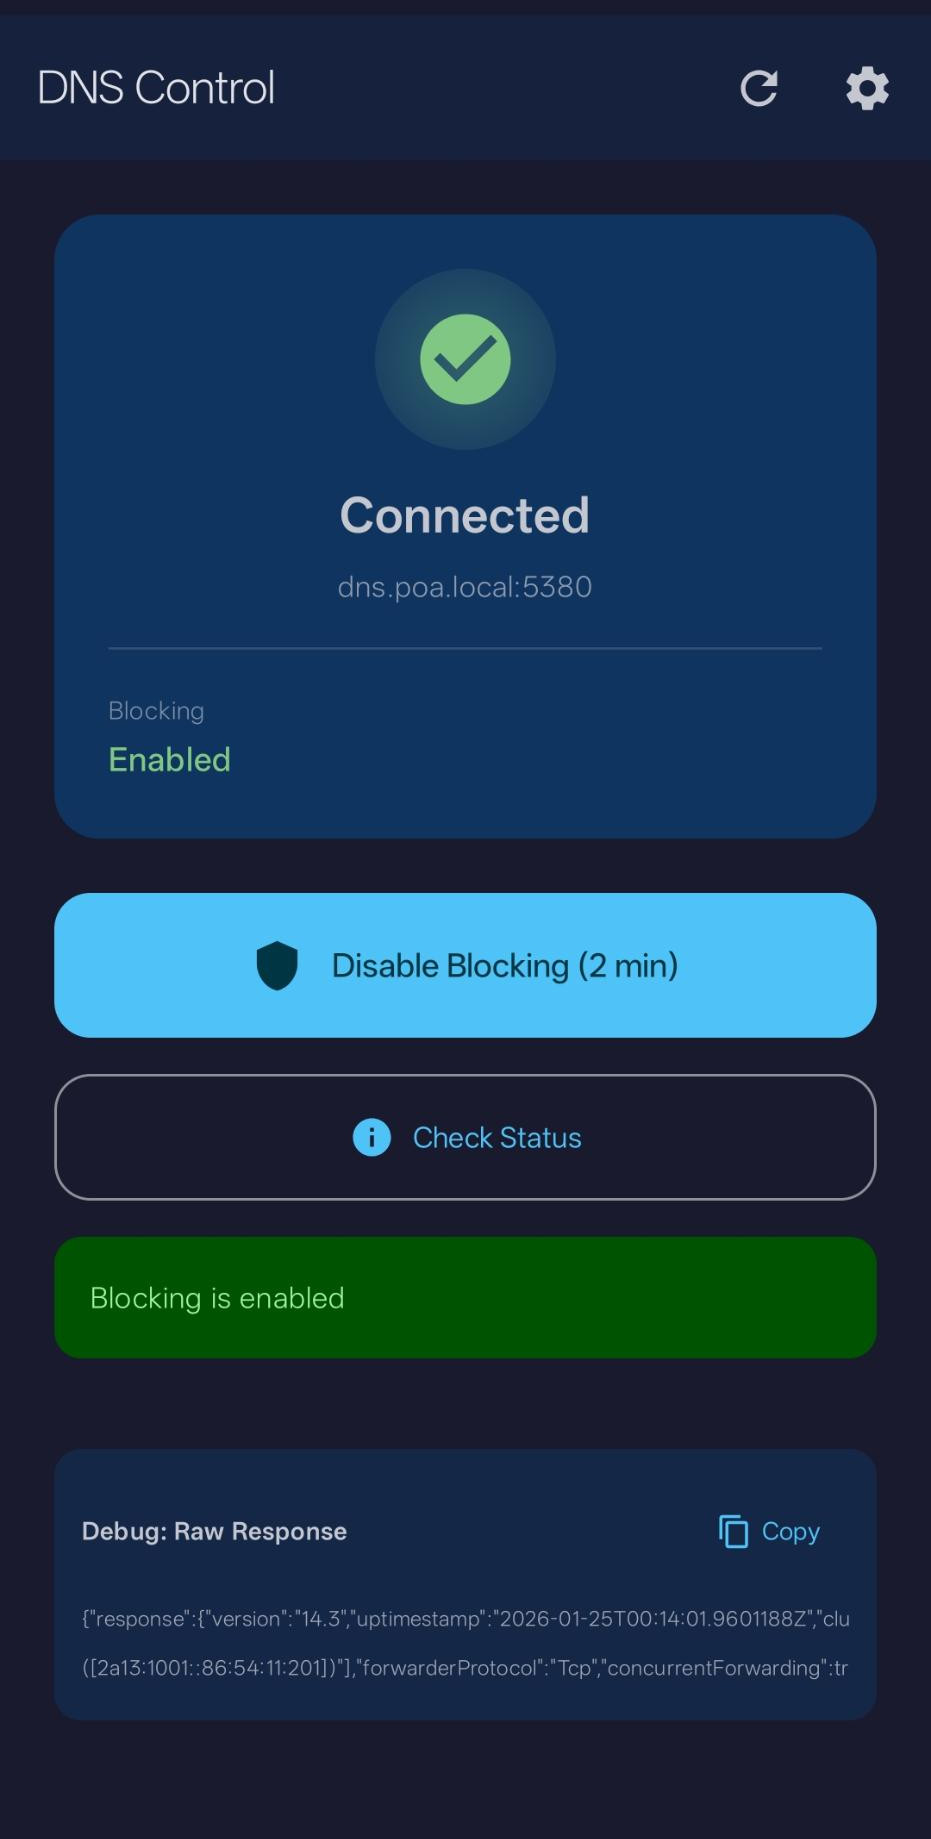
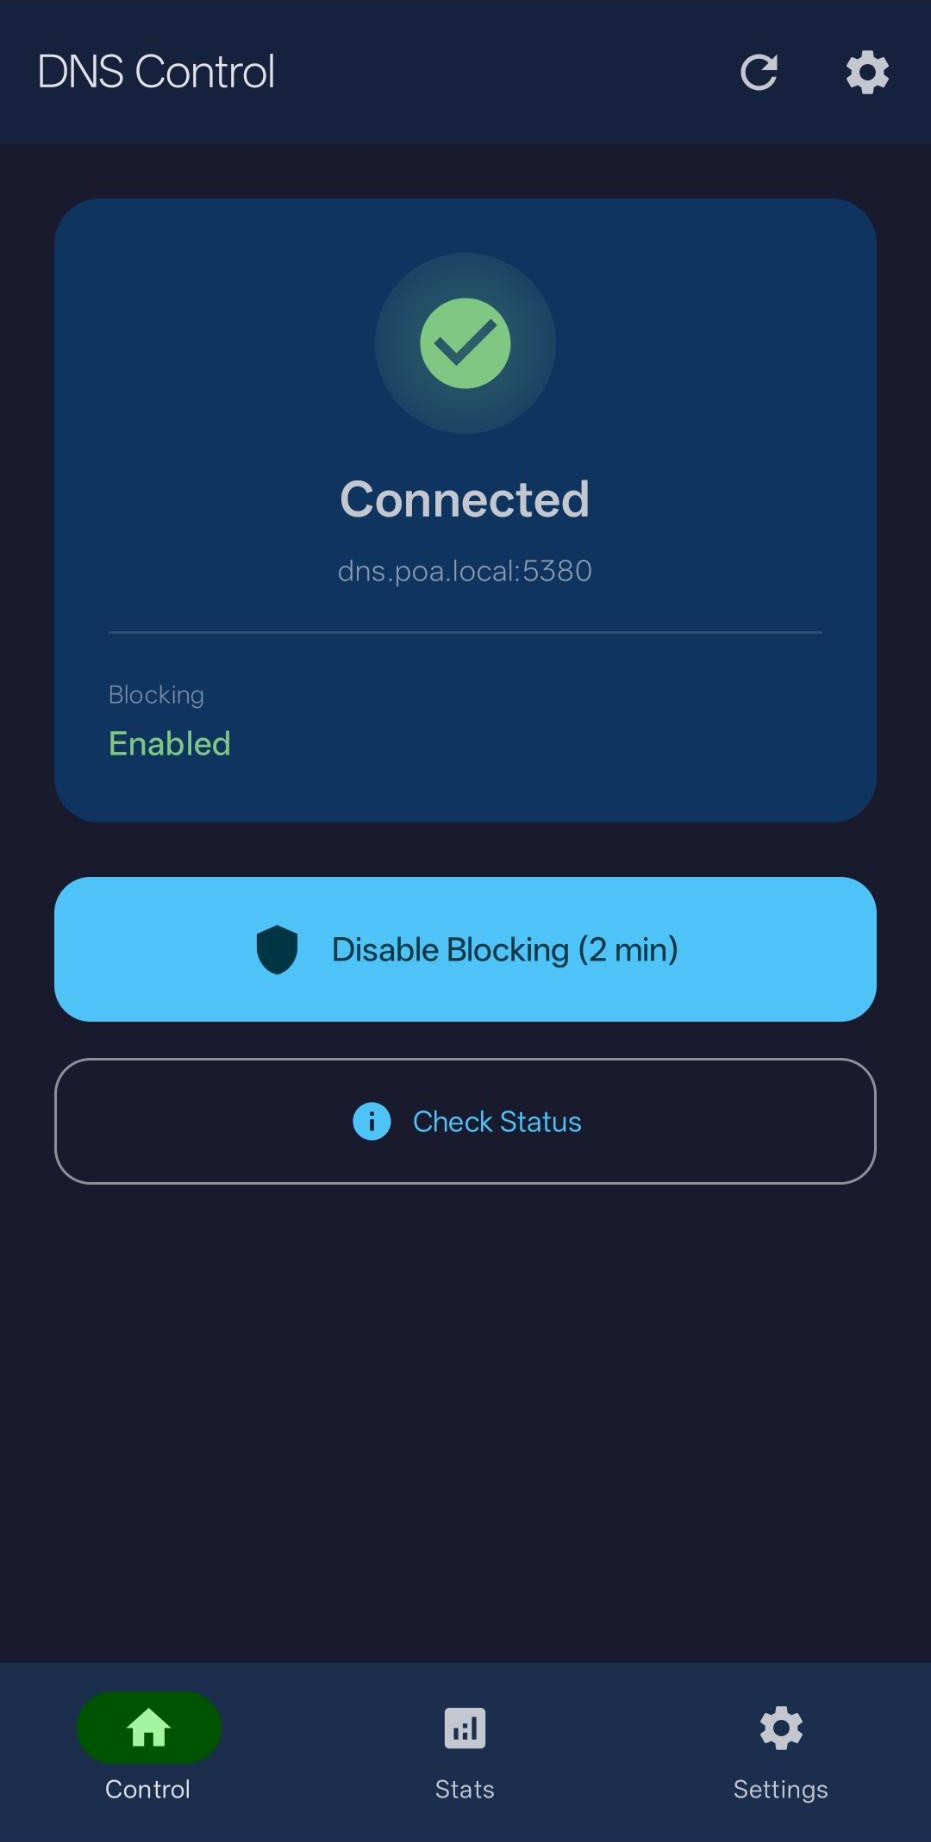
added: - new screenshots
changes:
- updated the readme with the new screenshots

diff --git a/README.md b/README.md
@@ -17,6 +17,8 @@ A modern Android application for controlling DNS blocking on Technitium DNS Serv
 <p align="center">
   <img src="images/main.jpeg" width="300" alt="Main Window">
   &nbsp;&nbsp;&nbsp;
+  <img src="images/stats.jpeg" width="300" alt="Stats Window">
+  &nbsp;&nbsp;&nbsp;
   <img src="images/settings.jpeg" width="300" alt="Settings Window">
 </p>
 
